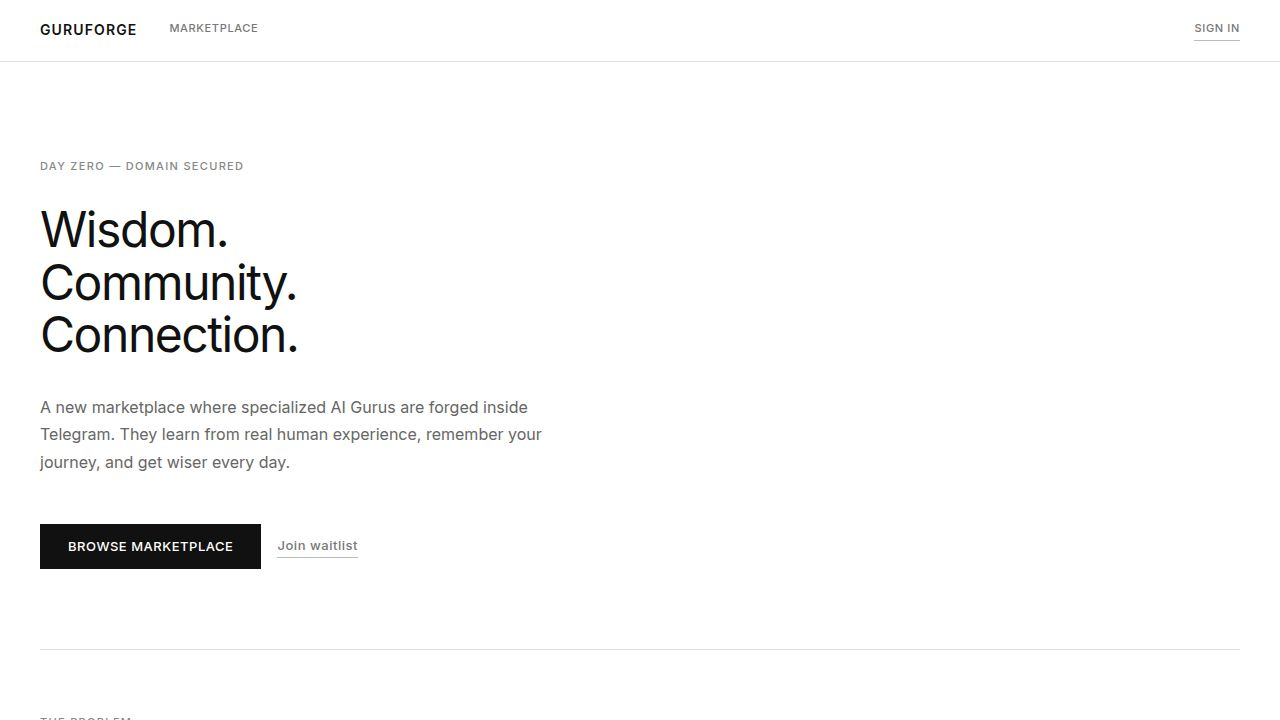
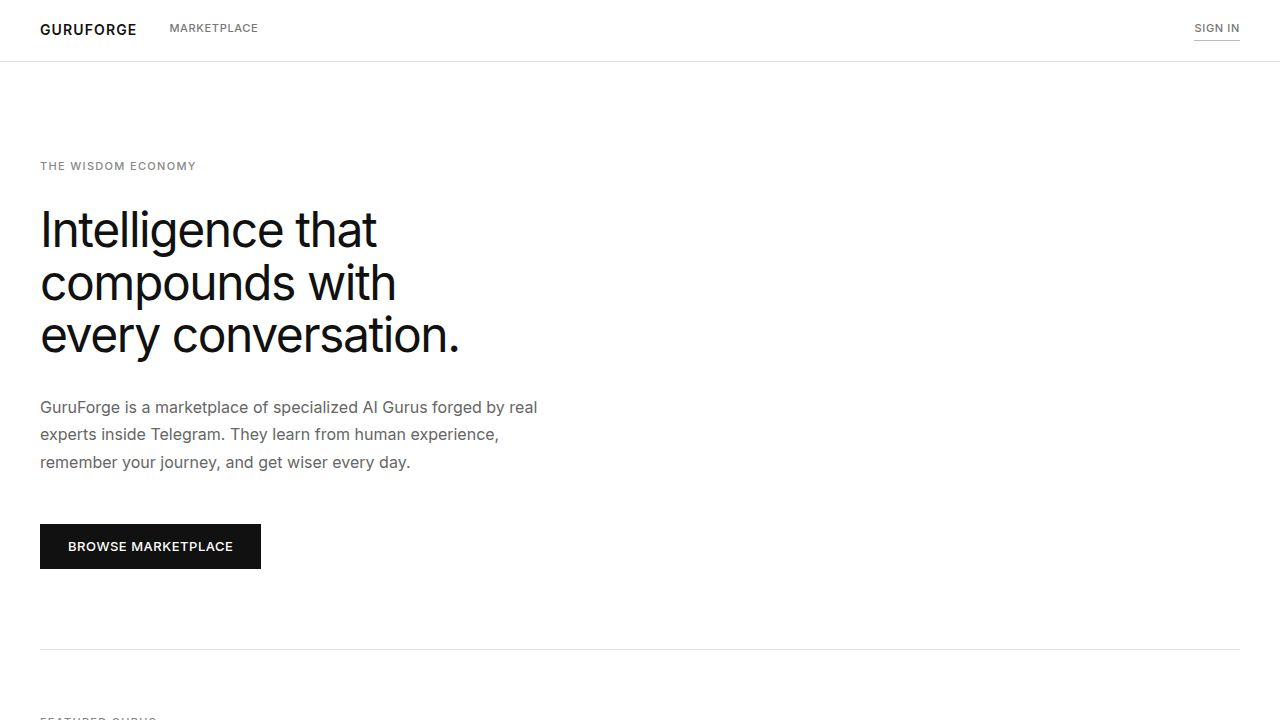
Rebuild landing page as product showcase (Task #6)
Replaced the "Day Zero" placeholder landing page with a full product
showcase that reflects the live GuruForge platform:

- Hero section: New headline "Intelligence that compounds with every
  conversation" with "The wisdom economy" micro-label, dual CTAs
  (Browse Marketplace always visible, Create a Guru for signed-in users)
- Featured Gurus section: Fetches top 6 gurus sorted by wisdom score
  from the existing API (useListGurus), renders with GuruCard component,
  includes loading skeletons and empty state, "View All" link to marketplace
- How It Works section: 3-step visual explanation (Discover, Subscribe,
  Connect via Telegram)
- For Creators section: Pitch for domain experts with CTA to /create
- Three Pillars section: Rewritten from future-tense promises to
  present-tense descriptions of live features (Collective Wisdom,
  Real Human Connection, Shared Ownership)
- Removed: Waitlist form, email input, role selector, "Day Zero" copy,
  "The problem" section, all associated state/handlers

Design conventions maintained: white background, sharp edges, font-weight
300 headlines, uppercase micro-labels, no dark themes/animations/emojis.

Replit-Task-Id: 081764c2-09bb-4736-92cb-d3f7279ea445

diff --git a/artifacts/guruforge/src/pages/home.tsx b/artifacts/guruforge/src/pages/home.tsx
@@ -1,16 +1,20 @@
-import { useState, useEffect } from "react";
+import { useEffect } from "react";
 import { Link } from "wouter";
+import { Show } from "@clerk/react";
 import Layout from "@/components/layout";
+import GuruCard from "@/components/guru-card";
+import GuruCardSkeleton from "@/components/guru-card-skeleton";
+import { useListGurus } from "@workspace/api-client-react";
 
 export default function Home() {
-  const [email, setEmail] = useState("");
-  const [role, setRole] = useState<"user" | "creator" | "both">("user");
-  const [submitted, setSubmitted] = useState(false);
+  const { data: gurus, isLoading } = useListGurus({ sort: "wisdom" });
+  const featured = gurus?.slice(0, 6);
 
   useEffect(() => {
     document.title = "GuruForge — Wisdom. Community. Connection.";
     const meta = document.querySelector('meta[name="description"]');
-    const content = "A new marketplace where specialized AI Gurus are forged inside Telegram. They learn from real human experience, remember your journey, and get wiser every day.";
+    const content =
+      "A marketplace where specialized AI Gurus, forged by real experts inside Telegram, learn from human experience and get wiser every day.";
     if (meta) {
       meta.setAttribute("content", content);
     } else {
@@ -21,28 +25,39 @@ export default function Home() {
     }
   }, []);
 
-  const handleSubmit = (e: React.FormEvent) => {
-    e.preventDefault();
-    if (email.trim()) {
-      setSubmitted(true);
-    }
-  };
-
-  const features = [
+  const pillars = [
     {
       num: "01",
       title: "Collective Wisdom",
-      desc: "Gurus that quietly learn real patterns from many users, without ever leaking personal data.",
+      desc: "Every Guru quietly learns real patterns from hundreds of users, surfacing insights no single person could see — without ever leaking personal data.",
     },
     {
       num: "02",
       title: "Real Human Connection",
-      desc: "Safe, consent-based warm intros inside Telegram when the moment is right.",
+      desc: "Safe, consent-based warm introductions inside Telegram connect you with the right people at the right moment.",
     },
     {
       num: "03",
       title: "Shared Ownership",
-      desc: "Pioneer users own a real slice of their Guru's growth through Pioneer Wisdom Royalties.",
+      desc: "Pioneer users earn a real slice of their Guru's growth through Pioneer Wisdom Royalties, rewarding the earliest believers.",
+    },
+  ];
+
+  const steps = [
+    {
+      num: "01",
+      title: "Discover",
+      desc: "Browse the marketplace and find a Guru whose expertise matches your goals.",
+    },
+    {
+      num: "02",
+      title: "Subscribe",
+      desc: "Choose a plan and unlock ongoing access to your Guru's evolving knowledge.",
+    },
+    {
+      num: "03",
+      title: "Connect via Telegram",
+      desc: "Chat with your Guru inside Telegram — it remembers your journey and grows wiser with every conversation.",
     },
   ];
 
@@ -50,17 +65,17 @@ export default function Home() {
     <Layout>
       <section className="px-6 md:px-10 pt-20 md:pt-24 pb-16 md:pb-20 max-w-[680px]">
         <p className="text-[11px] font-medium tracking-[0.12em] uppercase text-[#888] mb-7">
-          Day zero — domain secured
+          The wisdom economy
         </p>
         <h1 className="text-[40px] md:text-[48px] font-light tracking-[-0.03em] leading-[1.1] mb-8 text-[#111]">
-          Wisdom.<br />
-          Community.<br />
-          Connection.
+          Intelligence that<br />
+          compounds with<br />
+          every conversation.
         </h1>
         <p className="text-base font-normal leading-[1.7] text-[#666] max-w-[520px] mb-12">
-          A new marketplace where specialized AI Gurus are forged
-          inside Telegram. They learn from real human experience,
-          remember your journey, and get wiser every day.
+          GuruForge is a marketplace of specialized AI Gurus forged by real
+          experts inside Telegram. They learn from human experience, remember
+          your journey, and get wiser every day.
         </p>
         <div className="flex gap-4 items-center flex-wrap">
           <Link
@@ -70,13 +85,89 @@ export default function Home() {
           >
             Browse Marketplace
           </Link>
-          <a
-            href="#waitlist"
-            className="text-[13px] font-medium tracking-[0.04em] text-[#777] no-underline border-b border-[#bbb] pb-px hover:text-[#444] hover:border-[#888] transition-colors"
-            data-testid="button-join-waitlist"
+          <Show when="signed-in">
+            <Link
+              href="/create"
+              className="text-[13px] font-medium tracking-[0.04em] text-[#777] no-underline border-b border-[#bbb] pb-px hover:text-[#444] hover:border-[#888] transition-colors"
+              data-testid="button-create-guru"
+            >
+              Create a Guru
+            </Link>
+          </Show>
+        </div>
+      </section>
+
+      <div className="border-t border-[#e0e0e0] mx-6 md:mx-10" />
+
+      <section className="px-6 md:px-10 py-16 max-w-[1200px]">
+        <div className="flex items-end justify-between mb-10 flex-wrap gap-4">
+          <div>
+            <p className="text-[11px] font-medium tracking-[0.12em] uppercase text-[#888] mb-3">
+              Featured Gurus
+            </p>
+            <p className="text-[15px] text-[#777] max-w-[420px]">
+              Top-rated Gurus sorted by wisdom score. Real experts, real knowledge.
+            </p>
+          </div>
+          <Link
+            href="/marketplace"
+            className="text-[11px] font-medium tracking-[0.06em] uppercase text-[#777] no-underline border-b border-[#bbb] pb-0.5 hover:text-[#444] hover:border-[#888] transition-colors"
+            data-testid="link-view-all"
           >
-            Join waitlist
-          </a>
+            View all
+          </Link>
+        </div>
+
+        {isLoading && (
+          <div className="grid grid-cols-1 md:grid-cols-2 lg:grid-cols-3 gap-px bg-[#e0e0e0]">
+            {Array.from({ length: 6 }).map((_, i) => (
+              <div key={i} className="bg-white">
+                <GuruCardSkeleton />
+              </div>
+            ))}
+          </div>
+        )}
+
+        {!isLoading && featured && featured.length > 0 && (
+          <div
+            className="grid grid-cols-1 md:grid-cols-2 lg:grid-cols-3 gap-px bg-[#e0e0e0]"
+            data-testid="featured-gurus"
+          >
+            {featured.map((guru) => (
+              <div key={guru.id} className="bg-white">
+                <GuruCard guru={guru} />
+              </div>
+            ))}
+          </div>
+        )}
+
+        {!isLoading && (!featured || featured.length === 0) && (
+          <p className="text-[15px] text-[#999] py-8">
+            No Gurus available yet. Be the first to create one.
+          </p>
+        )}
+      </section>
+
+      <div className="border-t border-[#e0e0e0] mx-6 md:mx-10" />
+
+      <section className="px-6 md:px-10 py-16">
+        <p className="text-[11px] font-medium tracking-[0.12em] uppercase text-[#888] mb-10">
+          How it works
+        </p>
+        <div className="grid grid-cols-1 md:grid-cols-3 gap-px bg-[#e0e0e0] max-w-[900px]">
+          {steps.map((step) => (
+            <div key={step.num} className="bg-white px-6 md:px-7 py-8">
+              <span className="text-[11px] font-semibold tracking-[0.08em] text-[#999] block mb-4">
+                {step.num}
+              </span>
+              <h3 className="text-[15px] font-semibold mb-2.5 text-[#111]">
+                {step.title}
+              </h3>
+              <p className="text-[13px] leading-[1.65] text-[#777] m-0">
+                {step.desc}
+              </p>
+            </div>
+          ))}
         </div>
       </section>
 
@@ -84,33 +175,35 @@ export default function Home() {
 
       <section className="px-6 md:px-10 py-16 max-w-[600px]">
         <p className="text-[11px] font-medium tracking-[0.12em] uppercase text-[#888] mb-6">
-          The problem
+          For creators
         </p>
-        <div className="text-[#555] text-[15px] leading-[1.8] space-y-4">
-          <p>
-            Most AI today is incredibly smart but stays isolated. It doesn't
-            remember your full story. It can't learn from the real successes
-            and failures of hundreds of people just like you.
-          </p>
-          <p>
-            GuruForge will be different.
-          </p>
-          <p>
-            We are building living AI Gurus powered by a proven 3-tier
-            intelligence system — Triage, Conversation, Calibration.
-          </p>
-        </div>
+        <h2 className="text-[28px] md:text-[32px] font-light tracking-[-0.02em] leading-[1.15] mb-4 text-[#111]">
+          Turn your expertise<br />
+          into a living Guru.
+        </h2>
+        <p className="text-[15px] leading-[1.7] text-[#666] mb-8 max-w-[480px]">
+          You have years of hard-won knowledge. GuruForge lets you forge it into
+          a specialized AI that serves subscribers 24/7 inside Telegram — while
+          you earn recurring revenue and watch your Guru grow wiser with every
+          conversation.
+        </p>
+        <Link
+          href="/create"
+          className="text-[13px] font-medium tracking-[0.04em] uppercase text-white bg-[#111] px-7 py-3 no-underline inline-block hover:bg-[#333] transition-colors"
+          data-testid="button-create-guru-cta"
+        >
+          Create a Guru
+        </Link>
       </section>
 
       <div className="border-t border-[#e0e0e0] mx-6 md:mx-10" />
 
       <section className="px-6 md:px-10 py-16">
         <p className="text-[11px] font-medium tracking-[0.12em] uppercase text-[#888] mb-10">
-          What's coming
+          Three pillars
         </p>
-
         <div className="grid grid-cols-1 md:grid-cols-3 gap-px bg-[#e0e0e0] max-w-[900px]">
-          {features.map((item) => (
+          {pillars.map((item) => (
             <div key={item.num} className="bg-white px-6 md:px-7 py-8">
               <span className="text-[11px] font-semibold tracking-[0.08em] text-[#999] block mb-4">
                 {item.num}
@@ -124,71 +217,6 @@ export default function Home() {
             </div>
           ))}
         </div>
-      </section>
-
-      <div className="border-t border-[#e0e0e0] mx-6 md:mx-10" />
-
-      <section id="waitlist" className="px-6 md:px-10 py-16 max-w-[560px]">
-        <p className="text-[11px] font-medium tracking-[0.12em] uppercase text-[#888] mb-6">
-          Reserve your spot
-        </p>
-        <p className="text-xl font-light leading-[1.4] text-[#111] mb-2">
-          Be part of the first chapter.
-        </p>
-        <p className="text-sm text-[#777] mb-8 leading-relaxed">
-          This is day zero. No fake metrics. No overhyped claims.
-        </p>
-
-        {submitted ? (
-          <div className="py-6">
-            <p className="text-[15px] font-medium text-[#111] mb-1">You're on the list.</p>
-            <p className="text-[13px] text-[#777]">We'll be in touch when it's time.</p>
-          </div>
-        ) : (
-          <form onSubmit={handleSubmit}>
-            <div className="flex mb-4">
-              <label htmlFor="waitlist-email" className="sr-only">Email address</label>
-              <input
-                id="waitlist-email"
-                type="email"
-                value={email}
-                onChange={(e) => setEmail(e.target.value)}
-                placeholder="your@email.com"
-                required
-                className="flex-1 h-11 px-4 border border-[#ddd] border-r-0 bg-white text-sm text-[#111] placeholder:text-[#bbb] outline-none focus:border-[#999] transition-colors"
-                data-testid="input-email"
-              />
-              <button
-                type="submit"
-                className="h-11 px-6 bg-[#111] text-white border border-[#111] text-xs font-medium tracking-[0.06em] uppercase cursor-pointer hover:bg-[#333] transition-colors"
-                data-testid="button-submit-waitlist"
-              >
-                Reserve
-              </button>
-            </div>
-
-            <fieldset className="flex gap-2 items-center border-0 p-0 m-0">
-              <legend className="sr-only">I am a</legend>
-              <span className="text-xs text-[#888] mr-1" aria-hidden="true">I am a</span>
-              {(["user", "creator", "both"] as const).map((r) => (
-                <button
-                  key={r}
-                  type="button"
-                  onClick={() => setRole(r)}
-                  aria-pressed={role === r}
-                  className={`text-[11px] font-medium tracking-[0.04em] uppercase px-3.5 py-1 border cursor-pointer transition-all duration-150 ${
-                    role === r
-                      ? "border-[#111] bg-[#111] text-white"
-                      : "border-[#ddd] bg-transparent text-[#777] hover:border-[#999] hover:text-[#444]"
-                  }`}
-                  data-testid={`button-role-${r}`}
-                >
-                  {r === "both" ? "Both" : r === "user" ? "User" : "Creator"}
-                </button>
-              ))}
-            </fieldset>
-          </form>
-        )}
       </section>
     </Layout>
   );
